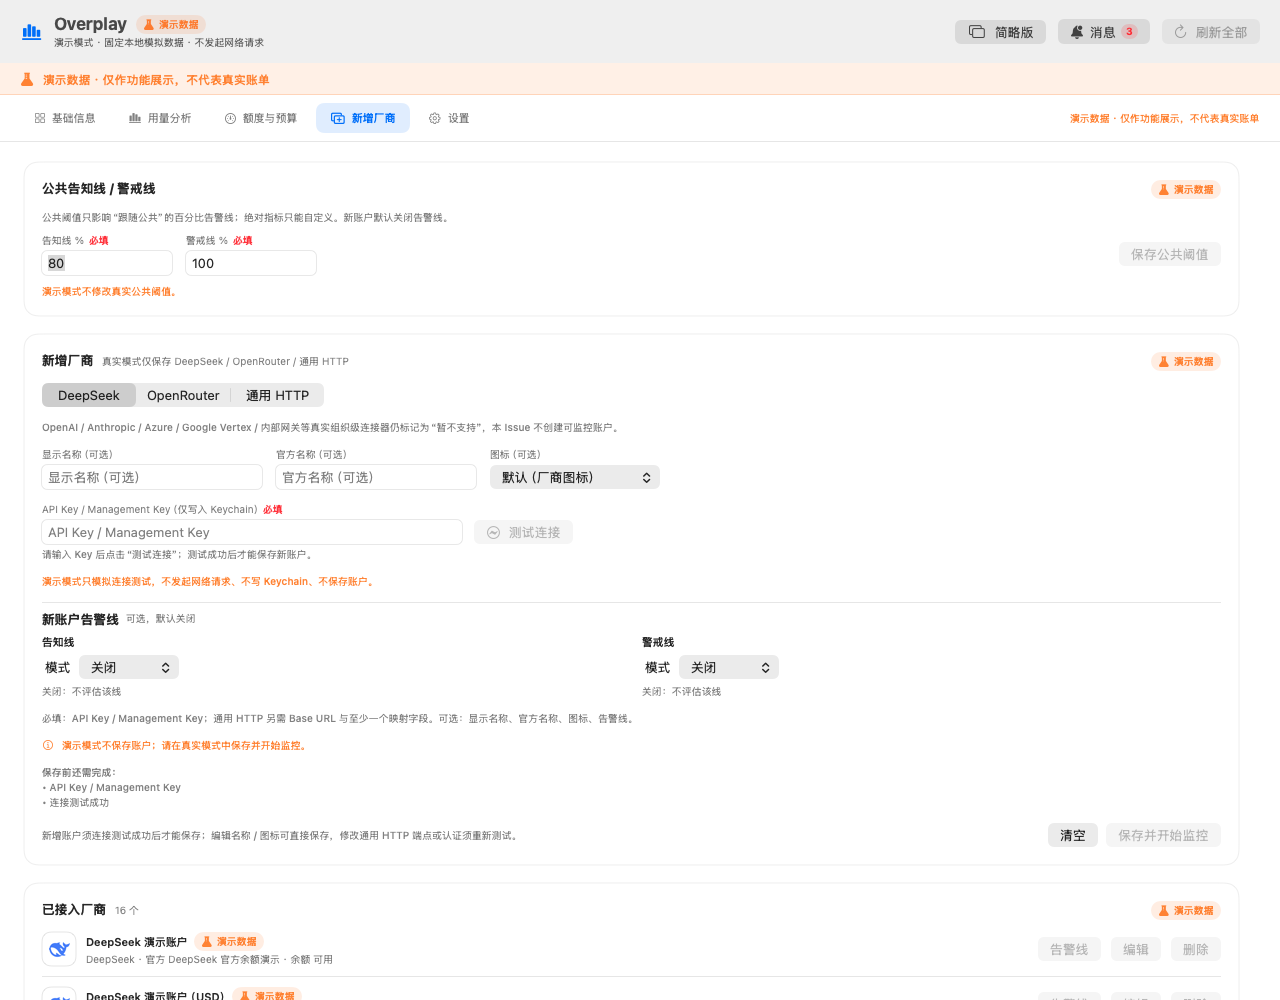
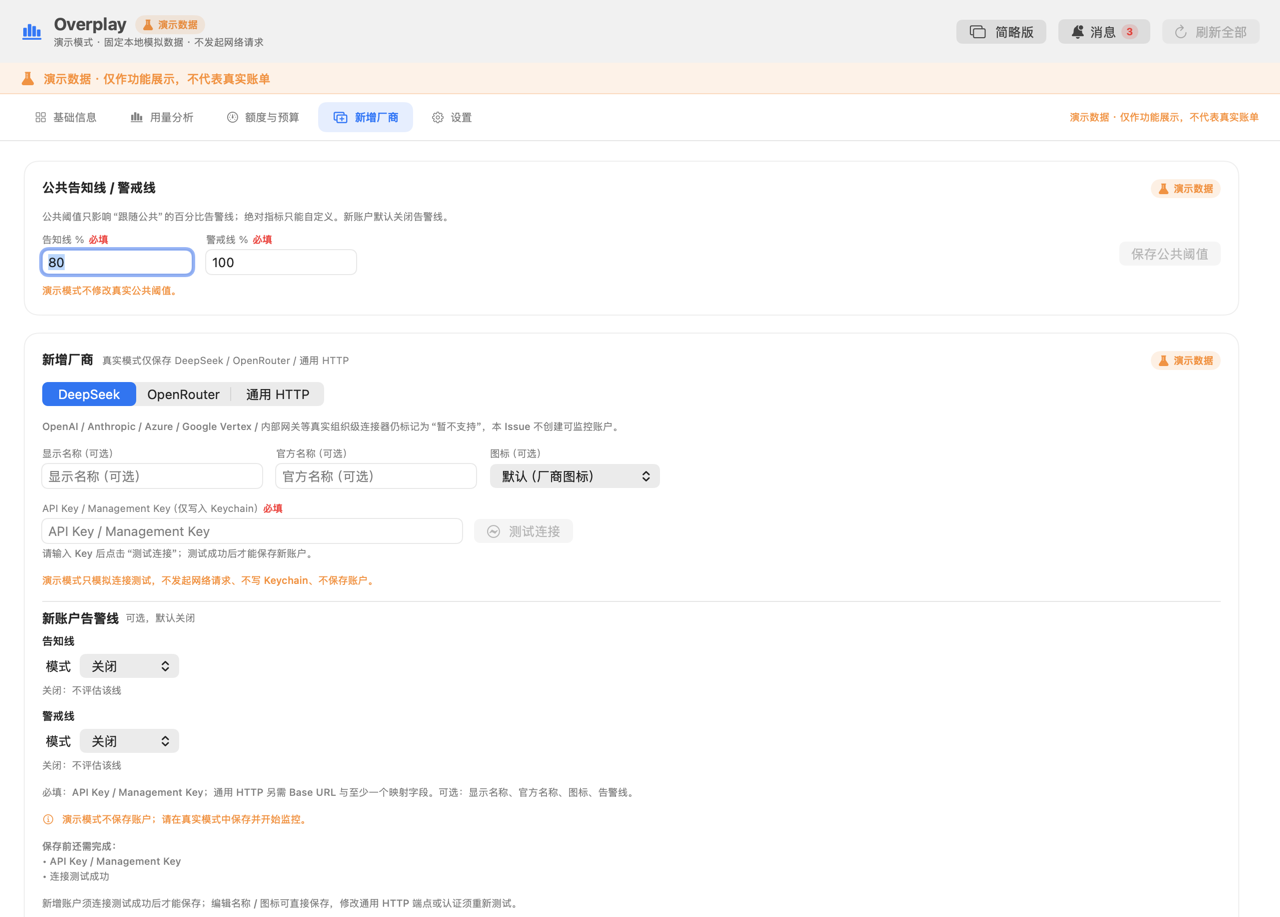
issue-006: 补充 GUI 验证与三语言截图
- 新增 --language 启动参数用于三语言截图 / 验收入口
- 1080 宽度下新增厂商告警线编辑改为纵向布局，长文案换行
- 修复 All 标签、官方名称前缀与账户标题本地化
- 更新简中 / English / 繁體中文 / 日本語语言包截图与 1080 布局截图

diff --git a/Sources/OverplayApp/Views/AddProviderView.swift b/Sources/OverplayApp/Views/AddProviderView.swift
@@ -87,12 +87,21 @@ struct AddProviderView: View {
                 Text(L10n.t("addProvider.0463694499"))
                     .font(.caption)
                     .foregroundStyle(.secondary)
-                HStack(spacing: 14) {
-                    labeledField(L10n.t("addProvider.915b1d4671"), text: $warningPercent, width: 130, required: true)
-                    labeledField(L10n.t("addProvider.4775c9323b"), text: $criticalPercent, width: 130, required: true)
-                    Spacer()
-                    Button(L10n.t("addProvider.f3b0b7aef7")) { savePublicConfig() }
-                        .disabled(model.isDemo || publicConfigError != nil)
+                    .fixedSize(horizontal: false, vertical: true)
+                ViewThatFits(in: .horizontal) {
+                    HStack(spacing: 14) {
+                        labeledField(L10n.t("addProvider.915b1d4671"), text: $warningPercent, width: 150, required: true)
+                        labeledField(L10n.t("addProvider.4775c9323b"), text: $criticalPercent, width: 150, required: true)
+                        Spacer()
+                        Button(L10n.t("addProvider.f3b0b7aef7")) { savePublicConfig() }
+                            .disabled(model.isDemo || publicConfigError != nil)
+                    }
+                    VStack(alignment: .leading, spacing: 8) {
+                        labeledField(L10n.t("addProvider.915b1d4671"), text: $warningPercent, width: 150, required: true)
+                        labeledField(L10n.t("addProvider.4775c9323b"), text: $criticalPercent, width: 150, required: true)
+                        Button(L10n.t("addProvider.f3b0b7aef7")) { savePublicConfig() }
+                            .disabled(model.isDemo || publicConfigError != nil)
+                    }
                 }
                 if let publicConfigError {
                     Label(publicConfigError, systemImage: "exclamationmark.circle")
@@ -127,6 +136,7 @@ struct AddProviderView: View {
                 Text(L10n.t("addProvider.c640421fd7"))
                     .font(.caption2)
                     .foregroundStyle(.secondary)
+                    .fixedSize(horizontal: false, vertical: true)
 
                 HStack(spacing: 14) {
                     labeledField(L10n.t("addProvider.8e759b9280"), text: $displayName, width: 220)
@@ -181,6 +191,7 @@ struct AddProviderView: View {
                     Text(L10n.t("addProvider.1801f70f4e"))
                         .font(.caption2)
                         .foregroundStyle(.orange)
+                    .fixedSize(horizontal: false, vertical: true)
                 }
 
                 if provider == .genericHTTP {
@@ -199,6 +210,7 @@ struct AddProviderView: View {
                 Text(L10n.t("addProvider.937391fd7d"))
                     .font(.caption2)
                     .foregroundStyle(.secondary)
+                    .fixedSize(horizontal: false, vertical: true)
                 if let reason = saveDisabledReason, !isSaving {
                     Label(reason, systemImage: "info.circle")
                         .font(.caption)
@@ -216,23 +228,26 @@ struct AddProviderView: View {
                         }
                     }
                 }
-                HStack {
+                VStack(alignment: .leading, spacing: 8) {
                     Text(L10n.t("addProvider.5af73c60a1"))
                         .font(.caption2)
                         .foregroundStyle(.secondary)
-                    Spacer()
-                    if editingAccount != nil {
-                        Button(L10n.t("addProvider.c698df948d")) { resetForm() }
+                        .fixedSize(horizontal: false, vertical: true)
+                    HStack {
+                        Spacer()
+                        if editingAccount != nil {
+                            Button(L10n.t("addProvider.c698df948d")) { resetForm() }
+                        }
+                        Button(L10n.t("addProvider.84fcd70d42")) { resetForm() }
+                        Button {
+                            save()
+                        } label: {
+                            if isSaving { ProgressView().controlSize(.small) }
+                            Text(editingAccount == nil ? L10n.t("addProvider.2e1d532a2e") : L10n.t("addProvider.60b4ae9082"))
+                        }
+                        .buttonStyle(.borderedProminent)
+                        .disabled(saveDisabledReason != nil || isSaving)
                     }
-                    Button(L10n.t("addProvider.84fcd70d42")) { resetForm() }
-                    Button {
-                        save()
-                    } label: {
-                        if isSaving { ProgressView().controlSize(.small) }
-                        Text(editingAccount == nil ? L10n.t("addProvider.2e1d532a2e") : L10n.t("addProvider.60b4ae9082"))
-                    }
-                    .buttonStyle(.borderedProminent)
-                    .disabled(saveDisabledReason != nil || isSaving)
                 }
             }
         }
@@ -294,19 +309,9 @@ struct AddProviderView: View {
                 Text(L10n.t("addProvider.e6733b3e08")).font(.headline)
                 Text(L10n.t("addProvider.4b7a9ed7f8")).font(.caption).foregroundStyle(.secondary)
             }
-            HStack(alignment: .top, spacing: 20) {
-                AlertLineRuleEditor(
-                    title: L10n.t("addProvider.35f0803018"),
-                    rule: $warningRule,
-                    valueText: $warningValue,
-                    currency: $warningCurrency
-                )
-                AlertLineRuleEditor(
-                    title: L10n.t("addProvider.8d56556021"),
-                    rule: $criticalRule,
-                    valueText: $criticalValue,
-                    currency: $criticalCurrency
-                )
+            VStack(alignment: .leading, spacing: 12) {
+                warningEditor
+                criticalEditor
             }
             if let error = alertConfigError() {
                 Label(error, systemImage: "exclamationmark.circle")
@@ -314,6 +319,24 @@ struct AddProviderView: View {
                     .foregroundStyle(.red)
             }
         }
+    }
+
+    private var warningEditor: some View {
+        AlertLineRuleEditor(
+            title: L10n.t("addProvider.35f0803018"),
+            rule: $warningRule,
+            valueText: $warningValue,
+            currency: $warningCurrency
+        )
+    }
+
+    private var criticalEditor: some View {
+        AlertLineRuleEditor(
+            title: L10n.t("addProvider.8d56556021"),
+            rule: $criticalRule,
+            valueText: $criticalValue,
+            currency: $criticalCurrency
+        )
     }
 
     private func mappingField(_ title: String, text: Binding<String>) -> some View {
@@ -366,7 +389,7 @@ struct AddProviderView: View {
                                 Text(
                                     [
                                         account.provider.displayName,
-                                        account.officialName.map { L10n.f("settings.cf2ff9d62a", $0) },
+                                        account.officialName.map { L10n.f("common.officialName", $0) },
                                         account.capabilities.summary
                                     ].compactMap { $0 }.joined(separator: " · ")
                                 )
@@ -840,11 +863,13 @@ struct AlertLineRuleEditor: View {
                     Text(L10n.t("addProvider.97242298d6"))
                         .font(.caption2)
                         .foregroundStyle(.secondary)
+                        .fixedSize(horizontal: false, vertical: true)
                 }
             }
             Text(sourceHint)
                 .font(.caption2)
                 .foregroundStyle(.secondary)
+                .fixedSize(horizontal: false, vertical: true)
         }
         .frame(maxWidth: .infinity, alignment: .leading)
     }

diff --git a/Sources/OverplayApp/Views/SettingsView.swift b/Sources/OverplayApp/Views/SettingsView.swift
@@ -137,7 +137,7 @@ struct SettingsView: View {
                     ) {
                         Text(L10n.f("settings.eb7fa47f34", model.settings.refreshIntervalMinutes))
                             .monospacedDigit()
-                            .frame(width: 96, alignment: .trailing)
+                            .frame(width: 160, alignment: .trailing)
                     }
                     .disabled(model.isDemo)
                 }
@@ -192,7 +192,7 @@ struct SettingsView: View {
 
     private var accountsSection: some View {
         SectionCard(
-            title: L10n.t("core.csv.c3d92b20c8"),
+            title: L10n.t("settings.accounts.title"),
             subtitle: L10n.f("settings.3c12d9513d", model.accounts.count),
             isDemo: model.isDemo
         ) {
@@ -213,7 +213,7 @@ struct SettingsView: View {
                                 Text(
                                     [
                                         account.provider.displayName,
-                                        account.officialName.map { L10n.f("settings.cf2ff9d62a", $0) },
+                                        account.officialName.map { L10n.f("common.officialName", $0) },
                                         model.currencyLabel(for: account),
                                         model.capabilitySummary(for: account)
                                     ].compactMap { $0 }.joined(separator: " · ")

diff --git a/Sources/OverplayApp/AppDelegate.swift b/Sources/OverplayApp/AppDelegate.swift
@@ -11,6 +11,7 @@ struct LaunchOptions {
     var snapshotPath: String?
     var snapshotDirectory: String?
     var dataDirectory: URL?
+    var languageIdentifier: String?
     var overviewPlatform: ProviderKind?
     var overviewAccount: String?
     var windowWidth: CGFloat?
@@ -69,6 +70,9 @@ struct LaunchOptions {
                 if let height = Double(arguments[index]) {
                     options.windowHeight = CGFloat(height)
                 }
+            case "--language" where index + 1 < arguments.count:
+                index += 1
+                options.languageIdentifier = arguments[index]
             case "--dark":
                 options.darkAppearance = true
             case "--ui-smoke":
@@ -141,6 +145,9 @@ final class AppDelegate: NSObject, NSApplicationDelegate {
         }
 
         model = AppModel(dataDirectory: options.dataDirectory, forceDemo: options.demo)
+        if let language = options.languageIdentifier {
+            model.setLanguage(identifier: language)
+        }
         if options.suppressToasts {
             model.dismissAllToasts()
         }

diff --git a/Sources/OverplayApp/Views/BaseInfoView.swift b/Sources/OverplayApp/Views/BaseInfoView.swift
@@ -172,7 +172,7 @@ struct BaseInfoView: View {
         }
         return VStack(alignment: .leading, spacing: 6) {
             FlowLayout(spacing: 6, lineSpacing: 6) {
-                platformButton(nil, title: "All", symbol: "square.grid.2x2")
+                platformButton(nil, title: L10n.t("common.all"), symbol: "square.grid.2x2")
                 ForEach(presentProviders) { provider in
                     platformButton(for: provider)
                 }
@@ -380,7 +380,7 @@ private struct ProviderOverviewCard: View {
     private var subtitle: String {
         [
             account.provider.displayName,
-            account.officialName.map { L10n.f("settings.cf2ff9d62a", $0) },
+            account.officialName.map { L10n.f("common.officialName", $0) },
             model.currencyLabel(for: account),
             account.capabilities.summary
         ].compactMap { $0 }.joined(separator: " · ")

diff --git a/Sources/OverplayApp/Views/ProviderDetailView.swift b/Sources/OverplayApp/Views/ProviderDetailView.swift
@@ -79,7 +79,7 @@ struct ProviderDetailView: View {
                 Text(
                     [
                         account.provider.displayName,
-                        account.officialName.map { L10n.f("settings.cf2ff9d62a", $0) },
+                        account.officialName.map { L10n.f("common.officialName", $0) },
                         model.capabilitySummary(for: account)
                     ].compactMap { $0 }.joined(separator: " · ")
                 )

diff --git a/Sources/OverplayApp/Views/QuotaView.swift b/Sources/OverplayApp/Views/QuotaView.swift
@@ -80,7 +80,7 @@ struct QuotaView: View {
     private func accountSubtitle(_ account: Account) -> String {
         [
             account.provider.displayName,
-            account.officialName.map { L10n.f("settings.cf2ff9d62a", $0) },
+            account.officialName.map { L10n.f("common.officialName", $0) },
             model.currencyLabel(for: account),
             model.capabilitySummary(for: account)
         ].compactMap { $0 }.joined(separator: " · ")

diff --git a/README.md b/README.md
@@ -86,9 +86,21 @@ open DSOverplay.app        # 启动菜单栏应用
 | --- | --- |
 | ![悬浮窗展开](docs/screenshots/floating-expanded.png) | ![悬浮窗压缩](docs/screenshots/floating-compact.png) |
 
-| 托盘右键菜单（演示标识） | 基础信息（默认页：范围 / 覆盖率 / 厂商卡片） |
+| 托盘右键菜单（演示标识） | 基础信息（简中，默认页） |
 | --- | --- |
 | ![托盘菜单](docs/screenshots/tray-menu.png) | ![基础信息](docs/screenshots/overview.png) |
+
+| 基础信息（English） | 基础信息（繁體中文） |
+| --- | --- |
+| ![English overview](docs/screenshots/overview-en.png) | ![繁體中文 overview](docs/screenshots/overview-hant.png) |
+
+| 设置（简中：语言 / 通知 / 账户） | 设置（English） | 设置（繁體中文） |
+| --- | --- | --- |
+| ![设置简中](docs/screenshots/settings.png) | ![Settings English](docs/screenshots/settings-en.png) | ![設定繁體中文](docs/screenshots/settings-hant.png) |
+
+| 导入日本語语言包（缺失 key 回退简中） | 新增厂商（English，1080 宽布局） |
+| --- | --- |
+| ![日本語语言包](docs/screenshots/settings-ja.png) | ![Add Provider English 1080](docs/screenshots/add-provider-en-1080.png) |
 
 | 新增厂商（必填标识 / 保存原因 / 官方图标） | 告警线编辑器（校验提示 / 演示禁用原因） |
 | --- | --- |
